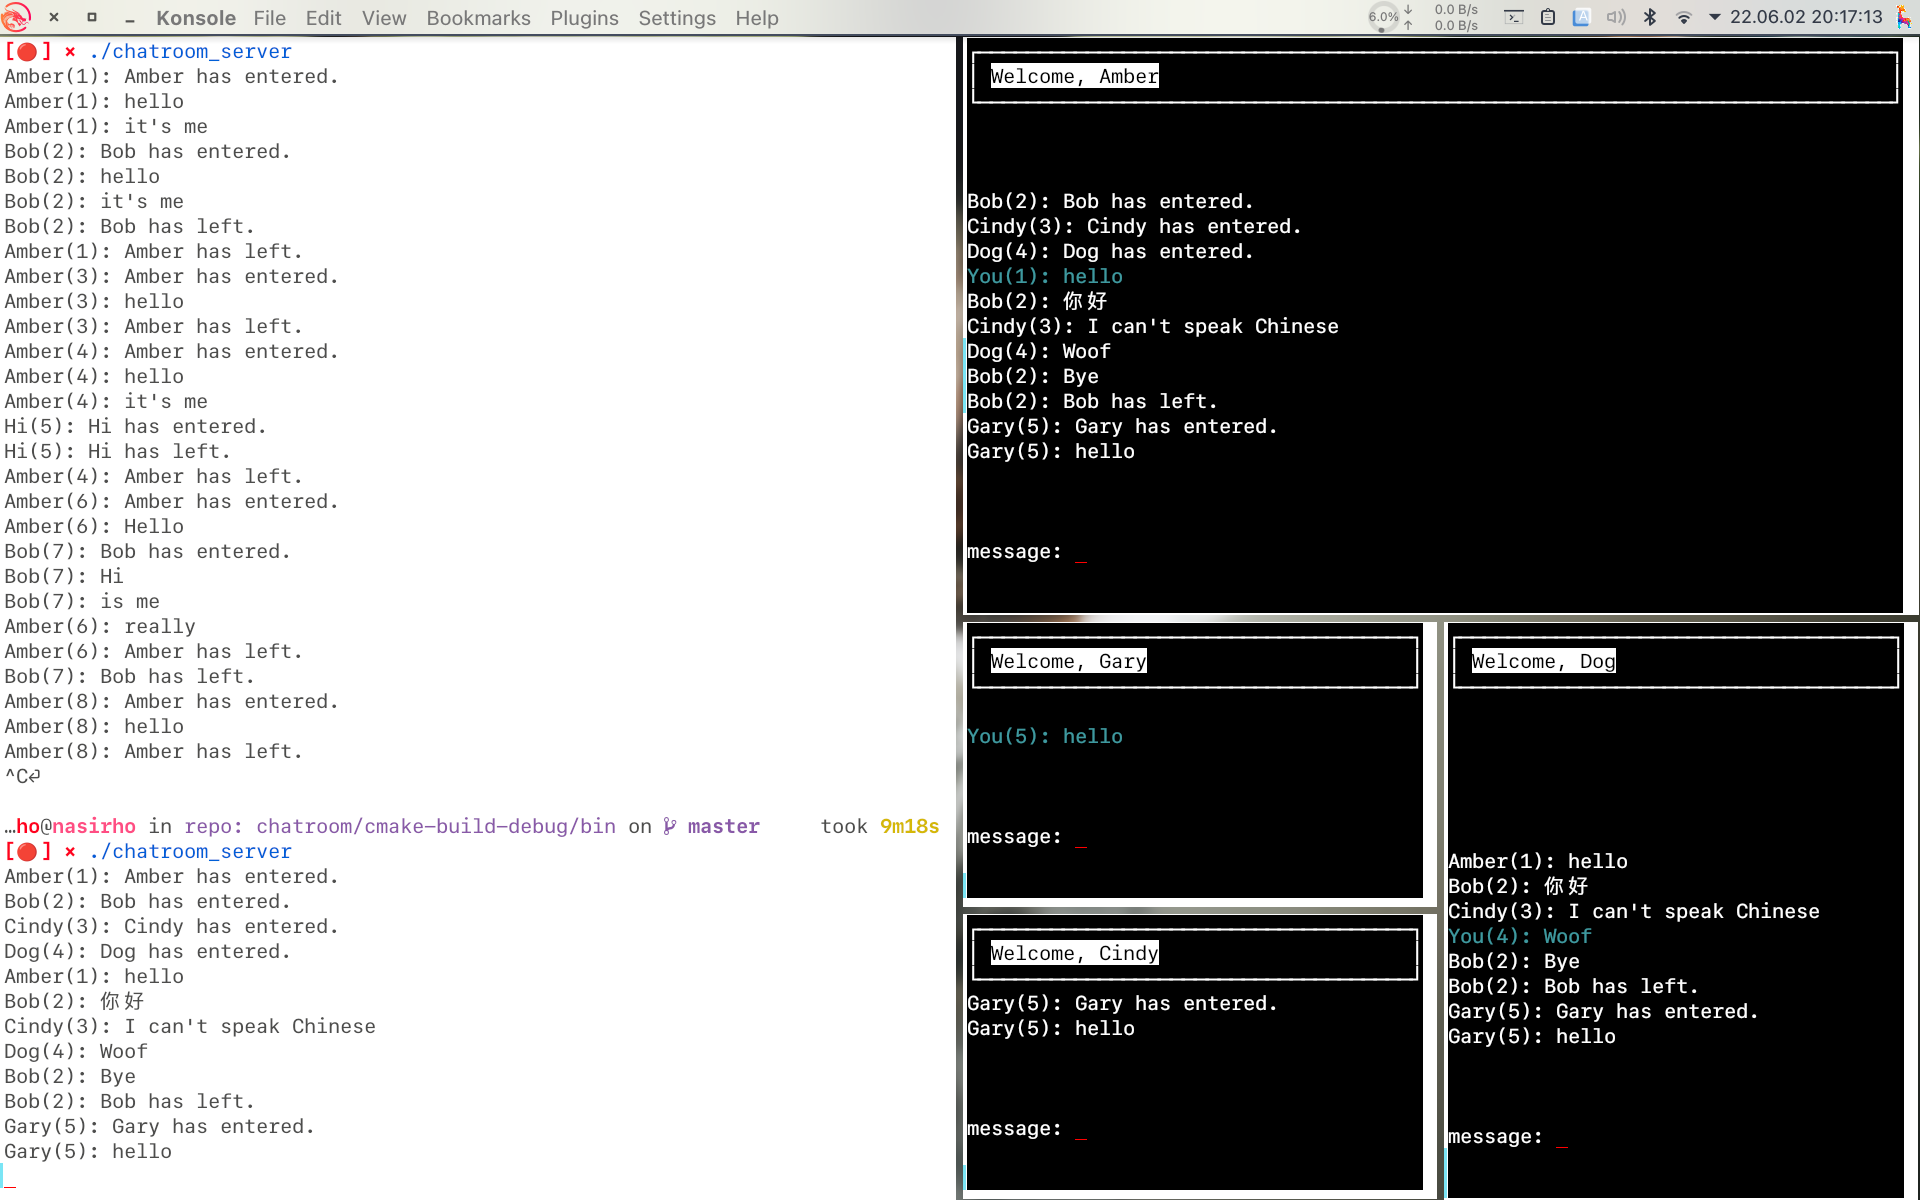
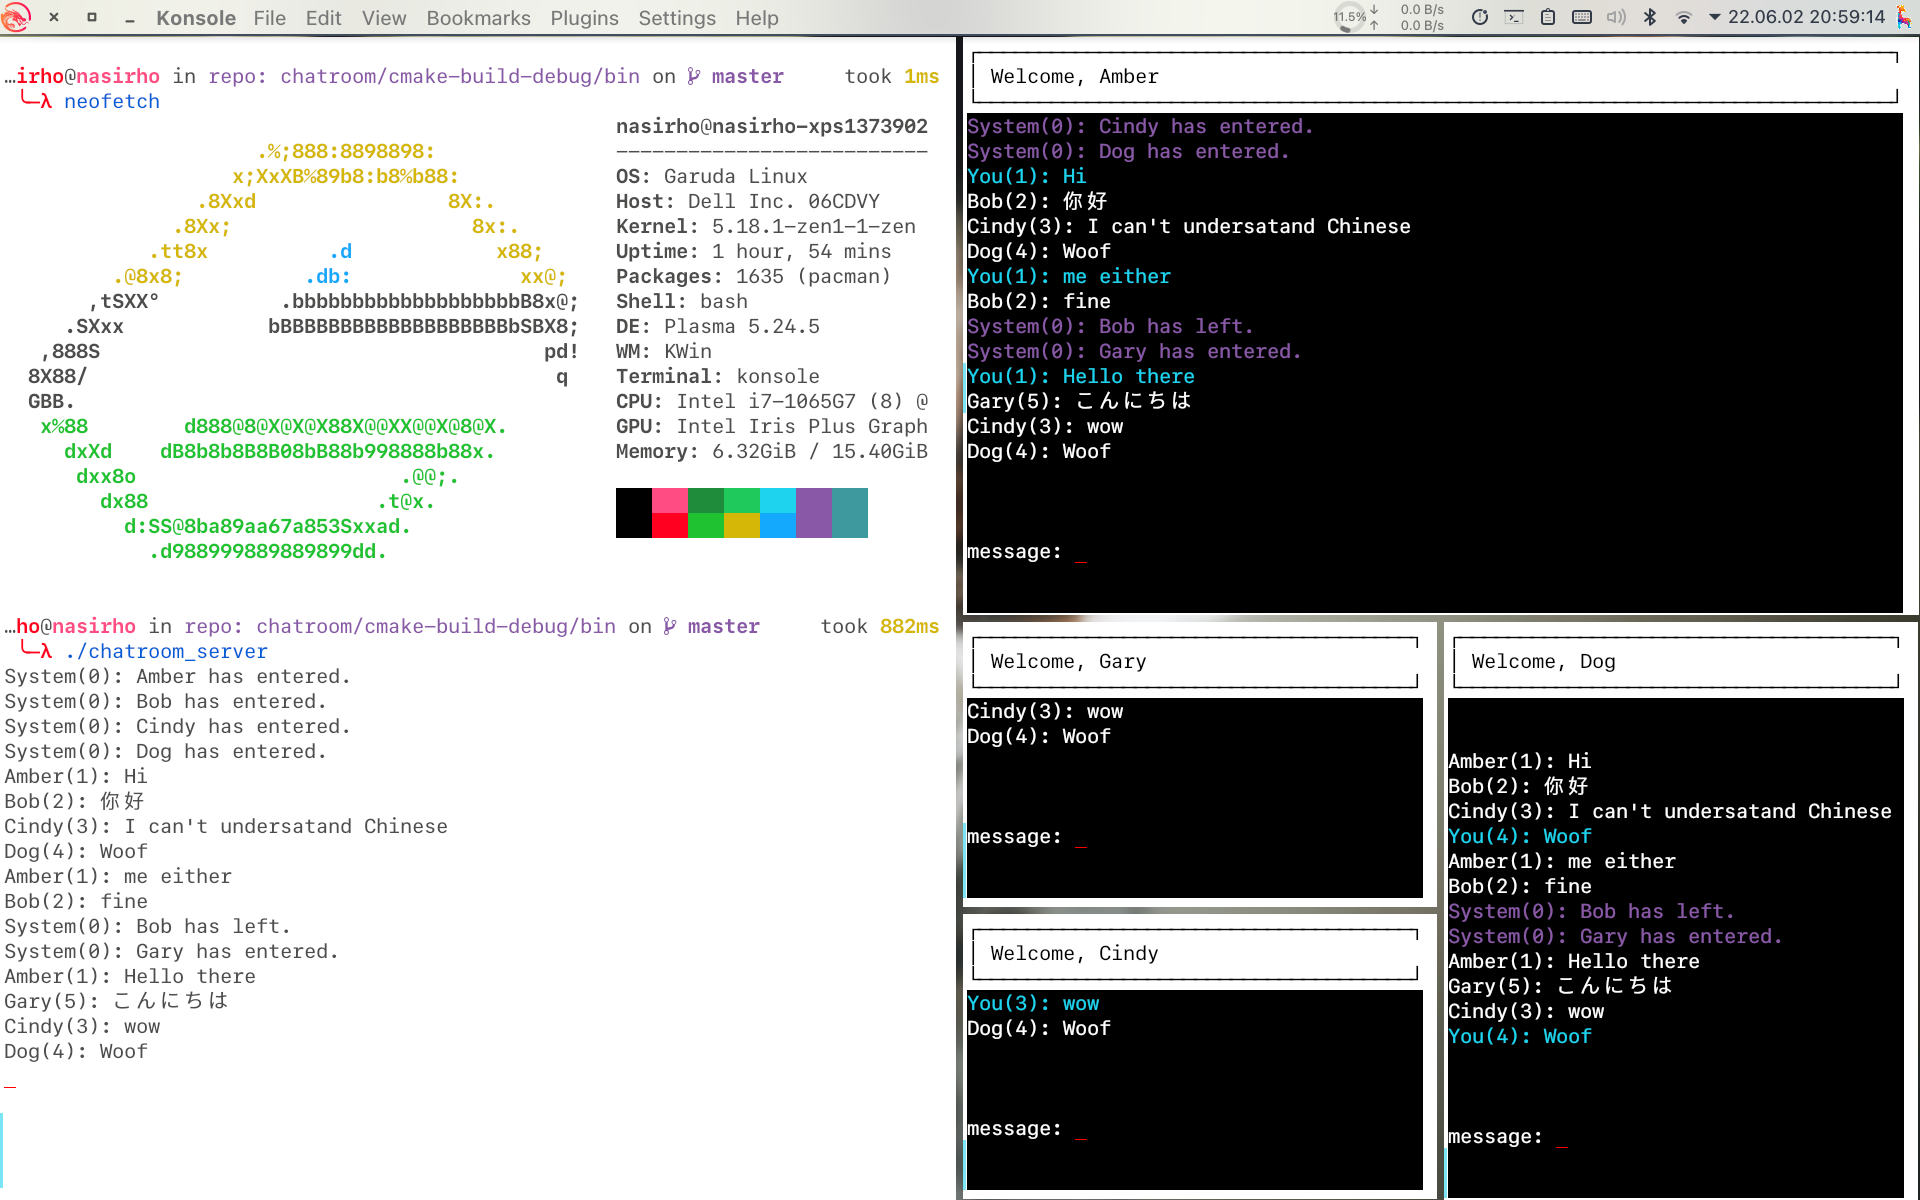
add system message color

diff --git a/ncurses_client.cpp b/ncurses_client.cpp
@@ -31,7 +31,8 @@ void ncurses_init()
     start_color();
 
     init_pair(1, COLOR_BLACK, COLOR_WHITE);
-    init_pair(2, COLOR_CYAN, COLOR_BLACK);
+    init_pair(2, COLOR_BLUE, COLOR_BLACK);
+    init_pair(3, COLOR_MAGENTA, COLOR_BLACK);
 
     ncurses_data.name_display_height = 3;
     ncurses_data.name_display_width = max_x;
@@ -56,19 +57,23 @@ void ncurses_init()
 // 在 消息接收窗口中顯示message信息。
 // message放在窗口的最後一行，窗口向上滾動
 // 消息接收窗口 的最後一行不顯示字符，和 下面的 消息輸入窗口 分開
-void ncurses_message_display(char *message, bool isSelf)
+void ncurses_message_display(char *message, bool isSelf, bool isSystem)
 {
     sem_wait(&(ncurses_data.message_display_mutex));
     int scroll_lines = ceil(strlen(message) * 1.0 / ncurses_data.message_display_width);
     wscrl(ncurses_data.message_display_win, scroll_lines);
     if (isSelf)
         wattron(ncurses_data.message_display_win ,COLOR_PAIR(2));
+    if (isSystem)
+        wattron(ncurses_data.message_display_win ,COLOR_PAIR(3));
     mvwprintw(ncurses_data.message_display_win,
               ncurses_data.message_display_height - scroll_lines - 1,
               0,
               message);
     if (isSelf)
         wattroff(ncurses_data.message_display_win, COLOR_PAIR(2));
+    if (isSystem)
+        wattroff(ncurses_data.message_display_win, COLOR_PAIR(3));
     wrefresh(ncurses_data.message_display_win);
     sem_post(&(ncurses_data.message_display_mutex));
 }

diff --git a/server.cpp b/server.cpp
@@ -112,7 +112,7 @@ void client_initialize(int client_socket, int id){
         }
     }
     string welcomMsg = (string)name + " has entered.";
-    writer(id, (string) name,welcomMsg);
+    writer(0, "System",welcomMsg);
     while(true){
         long bytes_recv = recv(client_socket, &type, sizeof(short), 0);
         if(bytes_recv <= 0)
@@ -127,7 +127,7 @@ void client_initialize(int client_socket, int id){
             recv(client_socket, msg, sizeof(msg), 0);
             writer(id, (string) name,(string)msg);
         }else if(type == 2){
-            writer(id, (string) name, (string) name + " has left.");
+            writer(0, "System", (string) name + " has left.");
             endConnection(id);
         }else{
             cout << "wierd thing";

diff --git a/ncurses_client_main.cpp b/ncurses_client_main.cpp
@@ -123,7 +123,7 @@ void recv_msg(){
             recv(client_socket, &id, sizeof(int), 0);
             recv(client_socket, msg, sizeof(msg),0);
             sprintf(display_buff, "%s(%d): %s", name, id, msg);
-            ncurses_message_display(display_buff, strcmp(name, "You") == 0);
+            ncurses_message_display(display_buff, strcmp(name, "You") == 0, id == 0);
             wrefresh(ncurses_data.input_board_win);
         }
     }

diff --git a/ncurses_client.h b/ncurses_client.h
@@ -22,7 +22,7 @@ typedef struct {
     sem_t message_display_mutex;
 } NcursesType;
 void ncurses_init();
-void ncurses_message_display(char* message, bool isSelf);
+void ncurses_message_display(char* message, bool isSelf, bool isSystem);
 void ncurses_clear_line(WINDOW* win, int y, int x);
 
 
